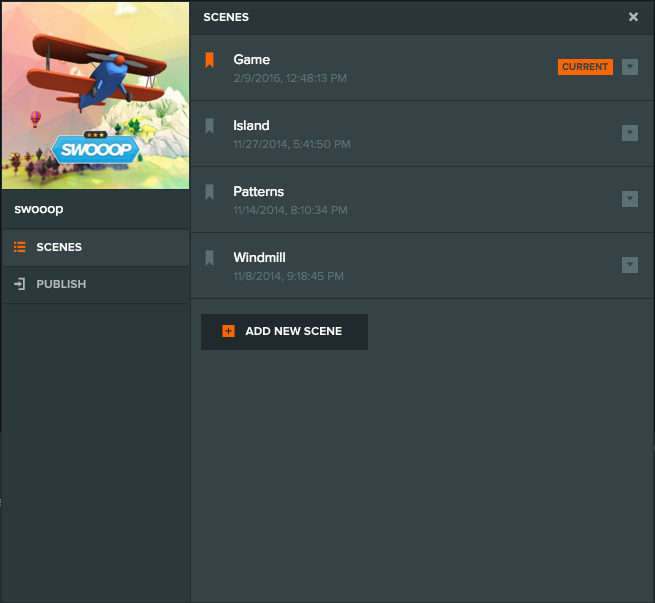
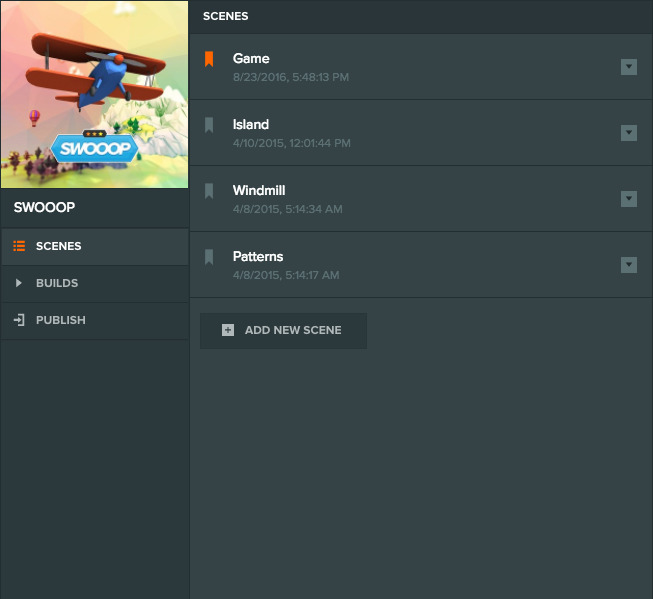
Update publishing popup

diff --git a/content/en/user-manual/publishing/web/playcanvas-hosting.md b/content/en/user-manual/publishing/web/playcanvas-hosting.md
@@ -20,11 +20,11 @@ To publish you will need to have at least one scene in your project.
 
 ![Publish Button][1]
 
-* This will open up the Publishing dialog. Here you can see a list of existing published builds. Here you can also set the Primary Build for your project, by clicking on the banner icon on the left of each build. This will be the build that users play when they click on the PLAY button in the Dashboard Header.
+* This will open up the Publishing dialog. Here you can publish a build or download a build for self-hosting.
 
 ![Publish][2]
 
-* Click PUBLISH.
+* Click the PUBLISH button next to "Publish on PlayCanvas".
 
 ![Publish New Build][3]
 
@@ -40,12 +40,20 @@ To publish you will need to have at least one scene in your project.
 
 * Select the Scenes you want to include in your build from the list. Notice that the Primary Scene (the one with the active banner icon), will be loaded first when your build is launched if you include it in the build.
 * Click 'PUBLISH NOW'
-* You will see a new build created in the PUBLISH tab. Wait until it finishes processing.
+* You will see a new build created in the BUILDS tab. Wait until it finishes processing.
 * Your web app is now live! Feel free to tweet it and share to Facebook right from the published URL.
 
 Builds are given permanent link in the form `http://playcanv.as/b/BUILD_ID`. This link will be valid until you delete the build. If you want to share a link to your game, you should probably use the published project link explained below.
 
-## Set the Primary Build
+## Existing Builds
+
+Click Builds on the same popup.
+
+![Builds][5]
+
+Here you can see a list of existing published builds.
+
+Here you can also set the Primary Build for your project, by clicking on the banner icon on the left of each build. This will be the build that users play when they click on the PLAY button in the Dashboard Header.
 
 It's useful to have a single link that will always refer to the latest version of your game. That way you don't have to worry about broken links when you delete old builds. This is why we each project has a Primary Build link. This will always be in the form `http://playcanv.as/p/PROJECT_ID`
 
@@ -62,4 +70,5 @@ To set the Primary Build for your project, click the Primary marker to the left 
 [2]: /images/user-manual/editor/publishing.jpg
 [3]: /images/user-manual/editor/publishing-new-top.jpg
 [4]: /images/user-manual/editor/publishing-new-bottom.jpg
+[5]: /images/user-manual/publishing/web/builds.jpg
 
